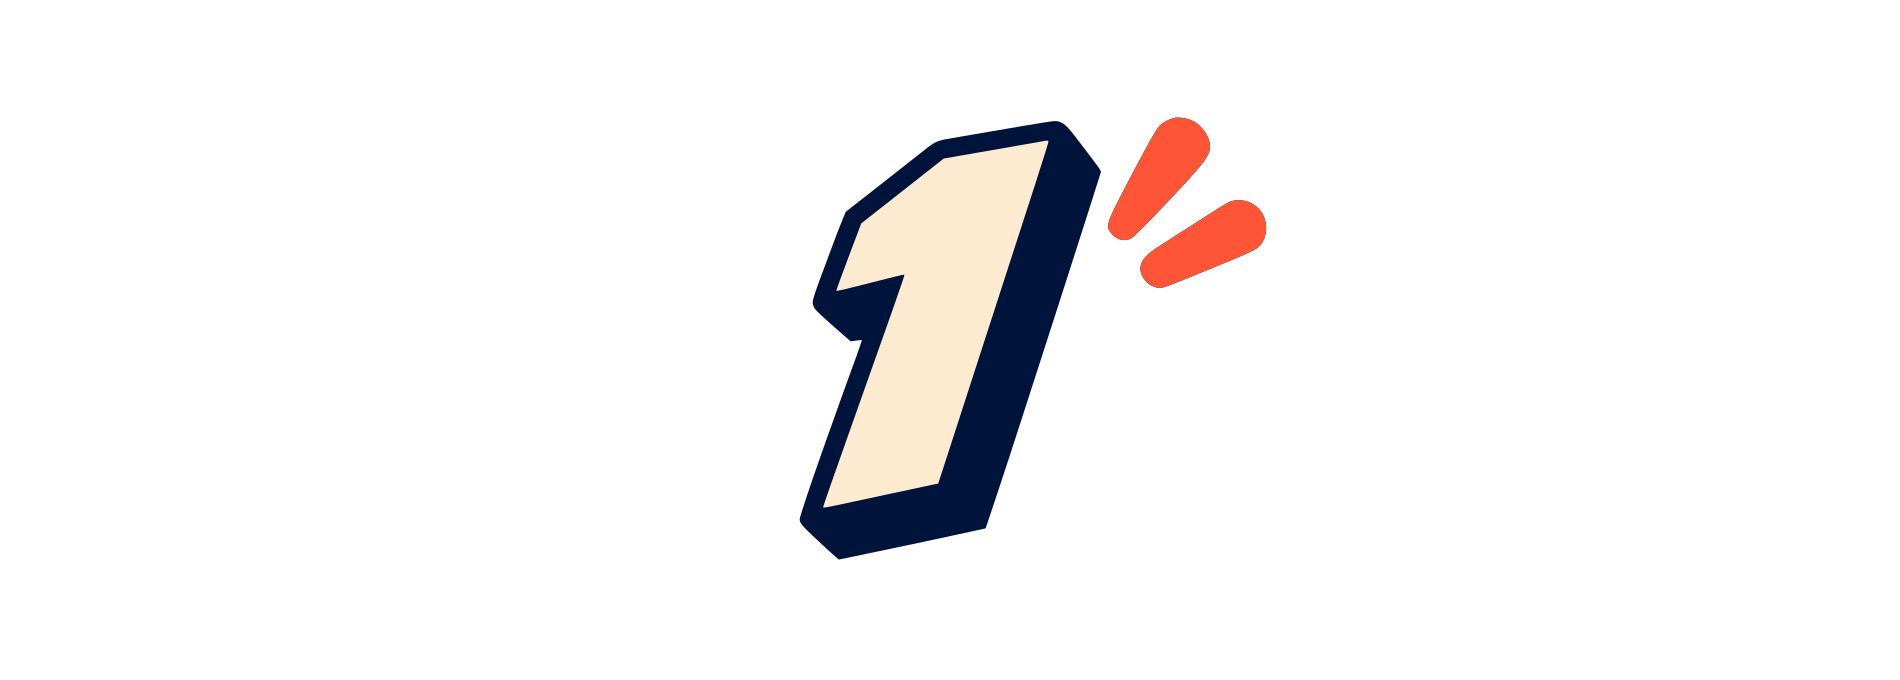
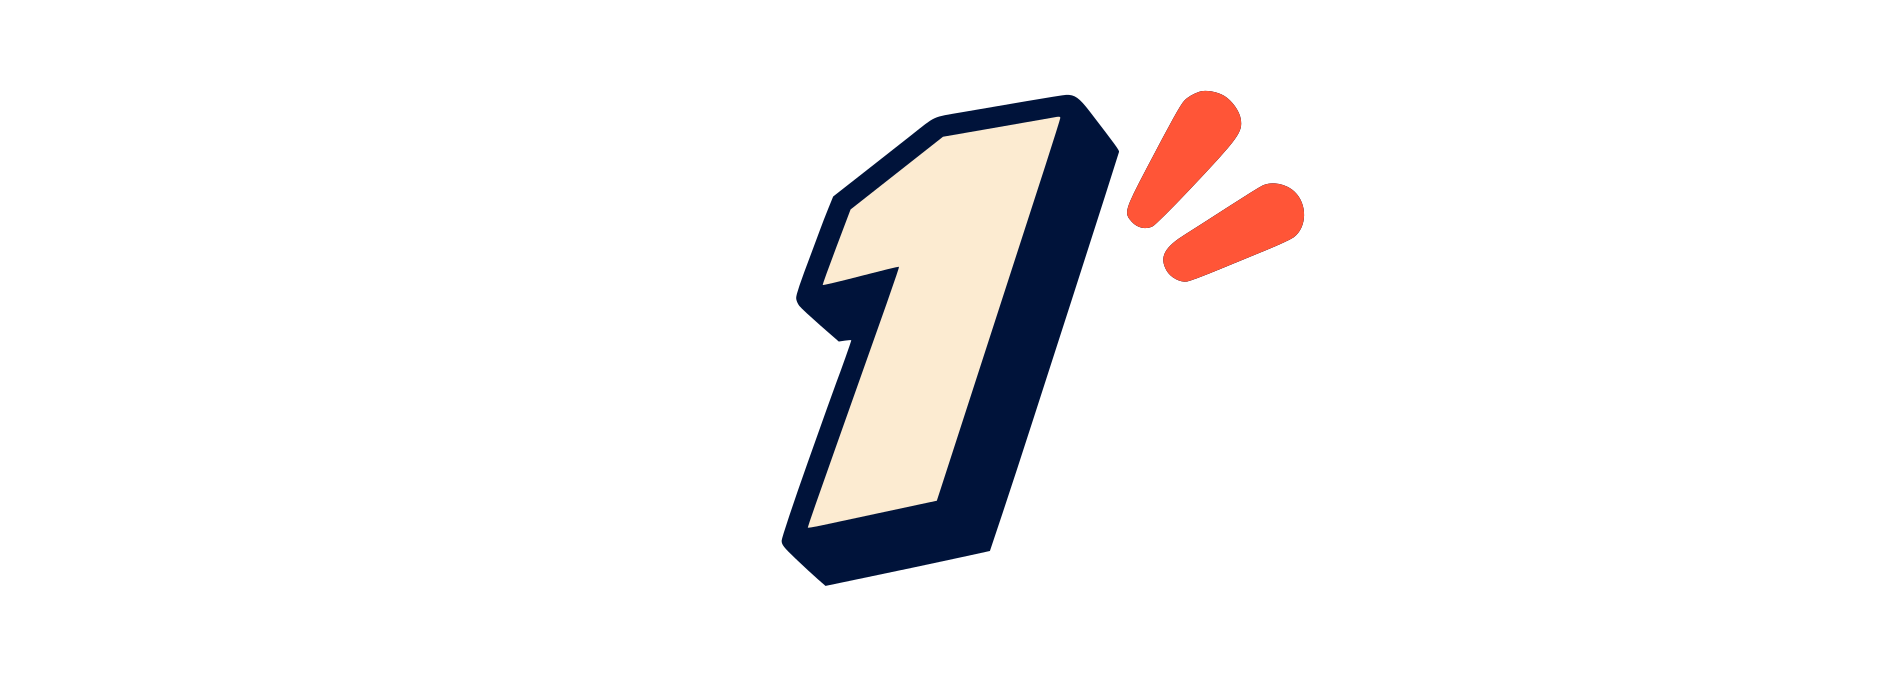
Unify tutorial and level machine rendering, align glow, enlarge count-in and version red GO artwork

Changed region(s): [[0.4037, 0.1235, 0.6832, 0.8647]]

diff --git a/index.html b/index.html
@@ -44,5 +44,5 @@
 <div id="quitDialog" class="modal-layer quit-layer" hidden><section class="art-panel quit-panel" role="dialog" aria-modal="true" aria-label="Quit game?"><img class="panel-title" src="assets/ui/elements/titles/quit-game.svg" alt="QUIT GAME?"><img class="quit-message" src="assets/ui/elements/labels/progress-will-be-lost.svg" alt="Your progress will be lost."><button id="cancelQuit" class="image-button"><img src="assets/ui/elements/buttons/unified/cancel.svg" alt="CANCEL"></button><button id="confirmQuit" class="image-button"><img src="assets/ui/elements/buttons/unified/quit.svg" alt="QUIT"></button></section></div>
 <div id="results" class="screen results-screen" hidden><img class="result-logo" src="assets/ui/elements/branding/logo-321-serve.svg" alt="321 Serve!"><div class="result-dish" aria-hidden="true"><img class="dish-plate" src="assets/game/environment/plate.png" alt=""><img class="dish-rice" src="assets/game/rice/formed.png" alt=""></div><div class="result-content"><img class="result-title" src="assets/ui/elements/titles/nice-cuts.svg" alt="NICE CUTS!"><img id="accuracy" class="accuracy" src="assets/ui/elements/result/percentages/000.svg" alt="0%" aria-label="0 percent accuracy"><img class="result-celebration celebration-left" src="assets/ui/elements/decorations/celebration-left.svg" alt=""><img class="result-celebration celebration-right" src="assets/ui/elements/decorations/celebration-right.svg" alt=""><img class="result-tag" src="assets/ui/elements/result/label-on-beat.svg" alt="ON BEAT"><p id="resultStats" class="result-stats"></p><button id="resultRetry" class="image-button"><img src="assets/ui/elements/buttons/unified/retry.svg" alt="RETRY"></button><button id="resultHome" class="image-button"><img src="assets/ui/elements/buttons/unified/home-result.svg" alt="HOME"></button></div></div>
 </section><footer><button id="audioStudioToggle" aria-controls="audioStudio" aria-expanded="false">AUDIO STUDIO</button><span id="status" role="status" aria-live="polite">Listen first. Tap on the beat.</span><div class="utility"><button id="sound" aria-pressed="false">SOUND ON</button><button id="full" aria-label="Toggle fullscreen">FULLSCREEN</button></div></footer><section id="audioStudio" class="audio-studio" aria-label="Audio studio" hidden></section></main>
-<audio id="music" src="assets/audio/rice-rice-baby.mp3" preload="auto"></audio><script src="startpage-motion.js"></script><script src="ui-state.js"></script><script src="rice-audio.js"></script><script src="soundtrack.js"></script><script src="audio-studio.js"></script><script src="ui-audio.js"></script><script src="game.js"></script><script src="tutorial-flow.js"></script><script src="level-select.js"></script>
+<audio id="music" src="assets/audio/rice-rice-baby.mp3" preload="auto"></audio><script src="startpage-motion.js"></script><script src="ui-state.js"></script><script src="rice-audio.js"></script><script src="soundtrack.js"></script><script src="audio-studio.js"></script><script src="ui-audio.js"></script><script src="game.js?v=rice-machine-ui-2"></script><script src="tutorial-flow.js?v=rice-machine-ui-2"></script><script src="level-select.js"></script>
 </body></html>

diff --git a/game.js b/game.js
@@ -9,7 +9,7 @@ const assets = {};
 const ui = 'assets/ui/elements/';
 const assetPaths = {
   table: 'assets/level1/table.png',
-  machine: 'assets/level1/imgMachineNormal1.png',
+  machine: 'assets/level1/ui/machine-clean.svg',
   loose: 'assets/level1/imgRiceBefore1.png',
   shaped: 'assets/level1/imgRiceShaped1.png',
   inaccurate: 'assets/level1/imgRiceInaccurate1.png',
@@ -365,13 +365,16 @@ function draw(t) {
   const releaseAge = group ? local - group.charge : -1;
   const recoil = releaseAge >= 0 ? Math.sin(releaseAge*38)*Math.exp(-releaseAge*13) : 0;
   const shake = reduce ? 0 : charging ? Math.sin(t*83)*(.3+pressure)*(fault?23:3) : recoil*23;
-  const machineX = 327.5 + shake - pressure*20;
+  const machineScale=1.2;
+  const sceneLeft=-(canvas.width/scale-1200)/2*(1950/1200);
+  const machineX=sceneLeft+325.4*machineScale+1.5+shake-pressure*20;
   const machineY = 449.5 + (reduce ? 0 : charging && fault ? Math.cos(t*67)*11 : 0);
+  c.restore();c.save(); // Glow shares the machine frame and reaches the full canvas.
   if (fault) {
     const intensity = charging ? .5 + .2*Math.sin(t*24) : .22;
     c.save();
     c.translate(machineX, machineY);
-    c.scale(1,1.13);
+    c.scale(machineScale,1.13*machineScale);
     const glow = c.createRadialGradient(0,0,190,0,0,490);
     glow.addColorStop(0, 'rgba(255,40,35,0)');
     glow.addColorStop(.55, 'rgba(255,45,30,'+intensity+')');
@@ -379,6 +382,7 @@ function draw(t) {
     c.fillStyle=glow; c.fillRect(-500,-500,1000,1000);
     c.restore();
   }
+  c.restore();c.save();clipScene();
   for (const batch of servings) {
     const age = beat - batch.beat;
     if (age < batch.charge) break;
@@ -453,12 +457,9 @@ function draw(t) {
       transformed(name,x,y,w*(1+squash),h/(1+squash),rotation);
     }
   }
-  // Adjust the machine artwork only. The original glow, rice and hand coordinates stay unchanged.
-  c.restore();c.save();if(lessonMode!=='level')clipScene();
-  const machineScale=lessonMode==='level'?1.2:1;
-  const sceneLeft=-(canvas.width/scale-1200)/2*(1950/1200);
-  const visualMachineX=lessonMode==='level'?sceneLeft+325.4*machineScale+1.5+shake-pressure*20:machineX;
-  c.translate(visualMachineX,machineY);c.scale(machineScale,machineScale);
+  // Tutorial and formal rounds use the same machine frame; food/hands retain their coordinates.
+  c.restore();c.save();
+  c.translate(machineX,machineY);c.scale(machineScale,machineScale);
   c.save();
   c.shadowColor = fault ? '#ff3020' : 'transparent';
   c.shadowBlur = fault ? (charging ? 42 : 22) : 0;

diff --git a/tutorial-flow.js b/tutorial-flow.js
@@ -70,11 +70,11 @@ function complete(){
 }
 function countIn(){
  panel('count-in');soundtrack.stop(0);count.hidden=false;
- const images=[base+'countdown-3.svg',base+'countdown-2.svg',base+'countdown-1.svg',base+'countdown-go.svg'];
+ const images=[base+'countdown-3.svg',base+'countdown-2.svg',base+'countdown-1.svg',base+'countdown-go-red.svg'];
  let shown=-1;
  timed(3200,elapsed=>{
   const index=Math.min(3,Math.floor(elapsed/800));if(index===shown)return;shown=index;
-  count.src=images[index];count.alt=['3','2','1','GO!'][index];screen.dataset.count=count.alt;el('status').textContent=count.alt;
+  count.src=images[index]+'?v=rice-ui-2';count.alt=['3','2','1','GO!'][index];screen.dataset.count=count.alt;el('status').textContent=count.alt;
  },async()=>{
   const current=token;
   if(await prepareAudio()){if(current===token)beginRound('level');}

diff --git a/assets/ui/elements/tutorial/rice-rice-baby/README.md b/assets/ui/elements/tutorial/rice-rice-baby/README.md
@@ -7,7 +7,7 @@ The approved English tutorial uses a `#87DCB0` background with gently moving rel
 - `now-its-your-turn`: transition from demonstration to interactive practice.
 - `tutorial-complete-card`: all four patterns complete.
 - `continue-button`, `watch-demo-button`, `key-a`, `key-d`, `textbox-empty`: reusable transparent components.
-- `countdown-1/2/3` and `countdown-go`: transparent count-in exports. The 3/2/1 companions wrap the shared countdown paths; only their number bodies are matched to GO height, excluding the small decorative accents. GO is coral and the turn cue is cream with navy outline/shadow.
+- `countdown-1/2/3` and `countdown-go`: transparent count-in exports. The 3/2/1 companions wrap the shared countdown paths; their number bodies use 112% of GO height, excluding the small decorative accents. `countdown-go-red` is the coral runtime resource, with versioned references to avoid stale assets; the turn cue is cream with navy outline/shadow.
 - `background-green`: the solid background, exported separately.
 
 PNGs are exported at twice the design size. Transparent margins surround the components; only the background is opaque. Runtime uses the corresponding SVGs for sharp rendering. Body text is outlined from the bundled IBM Plex Mono font so browsers do not substitute another typeface.

diff --git a/assets/level1/ui/README.md b/assets/level1/ui/README.md
@@ -1,0 +1,7 @@
+# Clean rice machine artwork
+
+`machine-clean.svg` uses solid color regions and the supplied machine silhouette. Its main panel is #87DCB0, with cream/beige and metal colors retained as separate details. Filled regions are opaque, so the red glow does not tint the body through partially transparent pixels.
+
+The original `assets/level1/imgMachineNormal1.png` is preserved. Both files use the same 1536 × 1024 coordinate space. `machine-clean.png` is the transparent 2× export; the game uses SVG directly.
+
+Regenerate with `node scripts/build-clean-machine.cjs` (development dependencies: sharp and potrace). Runtime requires no new library. Tutorial and formal rounds share machine placement, scale and glow coordinates.
